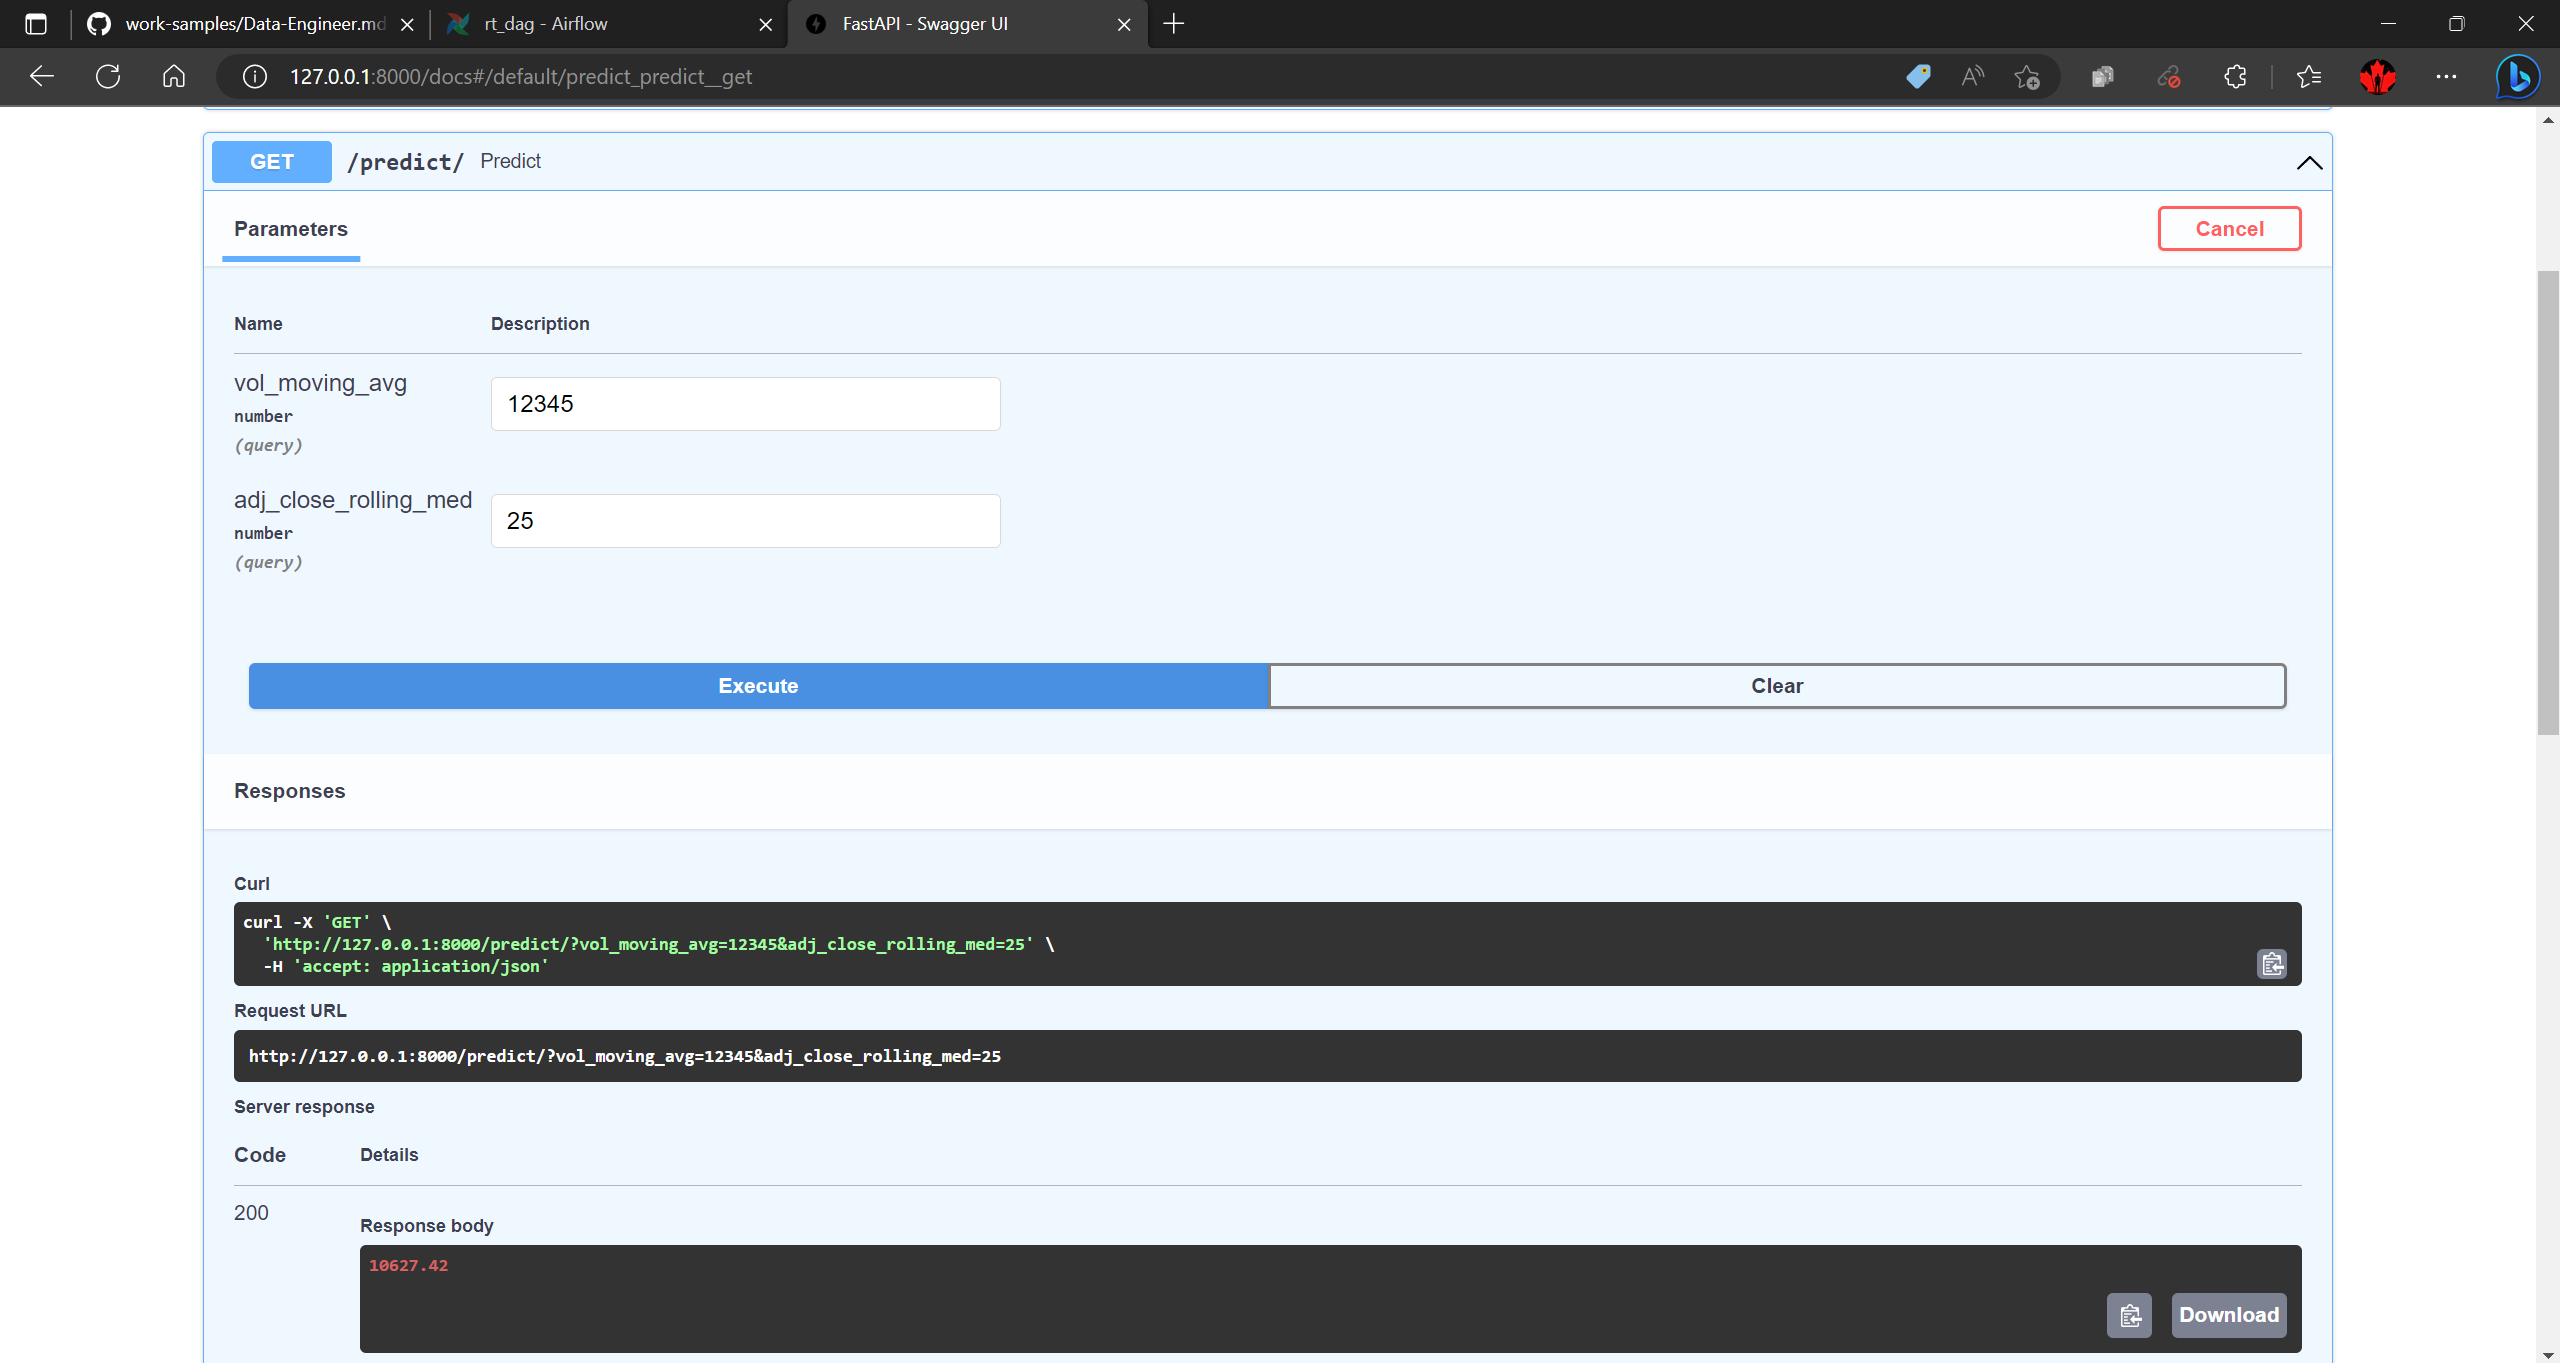
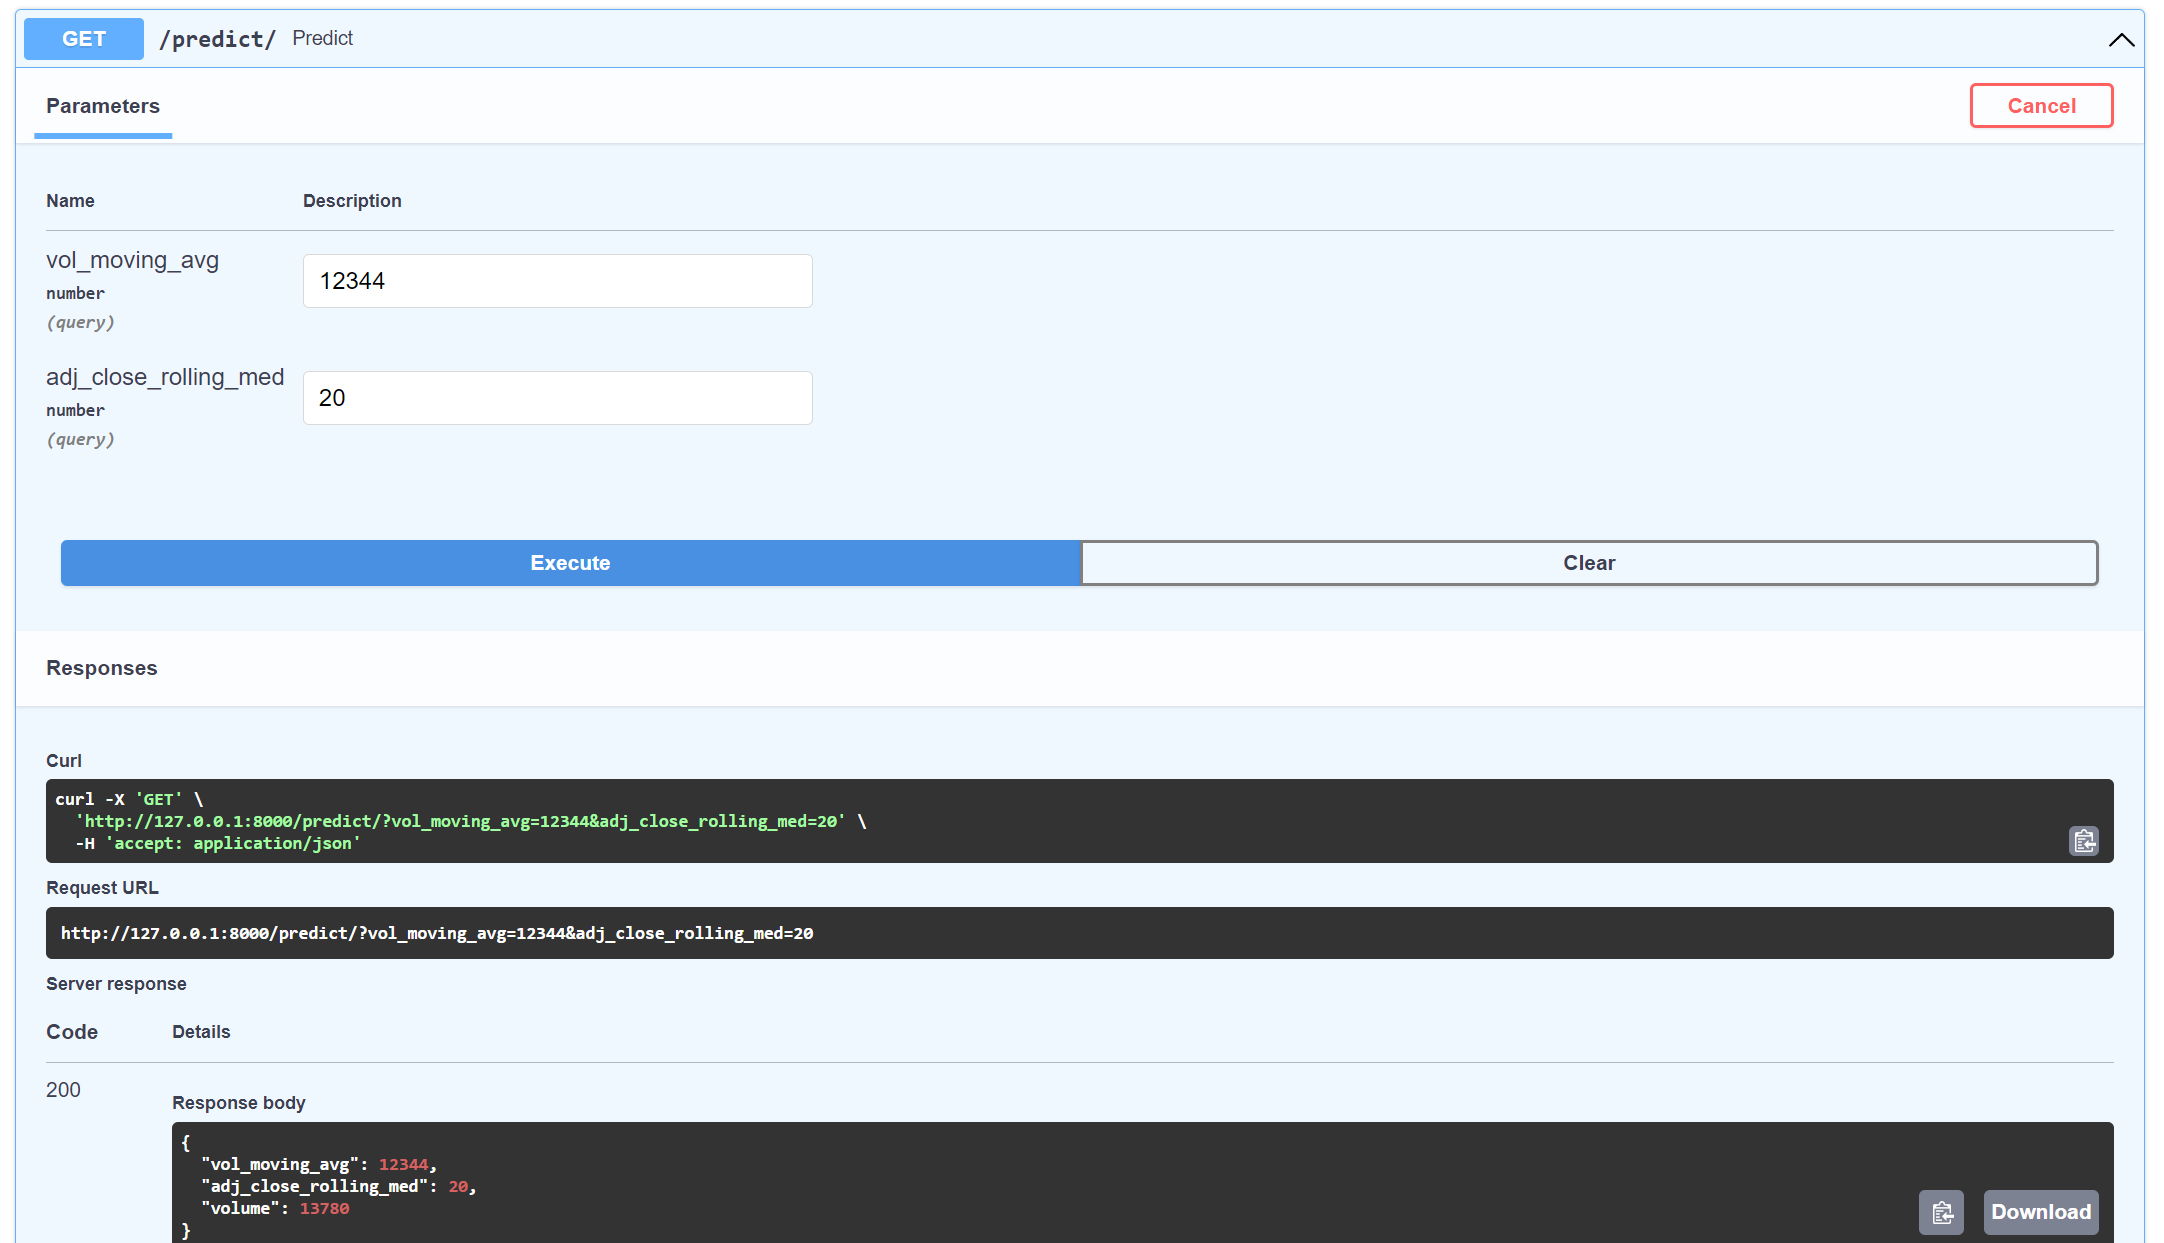
FastAPI

diff --git a/API/ml_fastapi.py b/API/ml_fastapi.py
@@ -1,24 +1,25 @@
 from fastapi import FastAPI
+from fastapi.encoders import jsonable_encoder
 import uvicorn
 import pickle
 import os
 
 app = FastAPI(debug=True)
+filename = 'C:/Users/gobis/VS Code/airflow_rt/model/LightGBM_model.pkl'
+if os.path.getsize(filename) > 0:
+    with open(filename, 'rb') as f:
+        unpickler = pickle.Unpickler(f)
+        model = unpickler.load()
 
 @app.get('/')
 def home():
     return {'text': 'RiskThinking WorkSample'}
 
 @app.get('/predict/')
-def predict(vol_moving_avg : float = 12345, adj_close_rolling_med : float = 25):
-    filename = 'C:/Users/gobis/VS Code/airflow_rt/model/LightGBM_model.pkl'
-    if os.path.getsize(filename) > 0:
-        with open(filename, 'rb') as f:
-            unpickler = pickle.Unpickler(f)
-            model = unpickler.load()
-        make_prediction = model.predict([[vol_moving_avg, adj_close_rolling_med]])
-        output = round(make_prediction[0],2)
-        return output
+def predict(vol_moving_avg : float = 12345, adj_close_rolling_med : float = 25): 
+    make_prediction = model.predict([[vol_moving_avg, adj_close_rolling_med]])
+    output = round(make_prediction[0])
+    return jsonable_encoder({'vol_moving_avg': vol_moving_avg,'adj_close_rolling_med':adj_close_rolling_med,'volume': output})
 
 if __name__ == '__main__':
     uvicorn.run(app)
